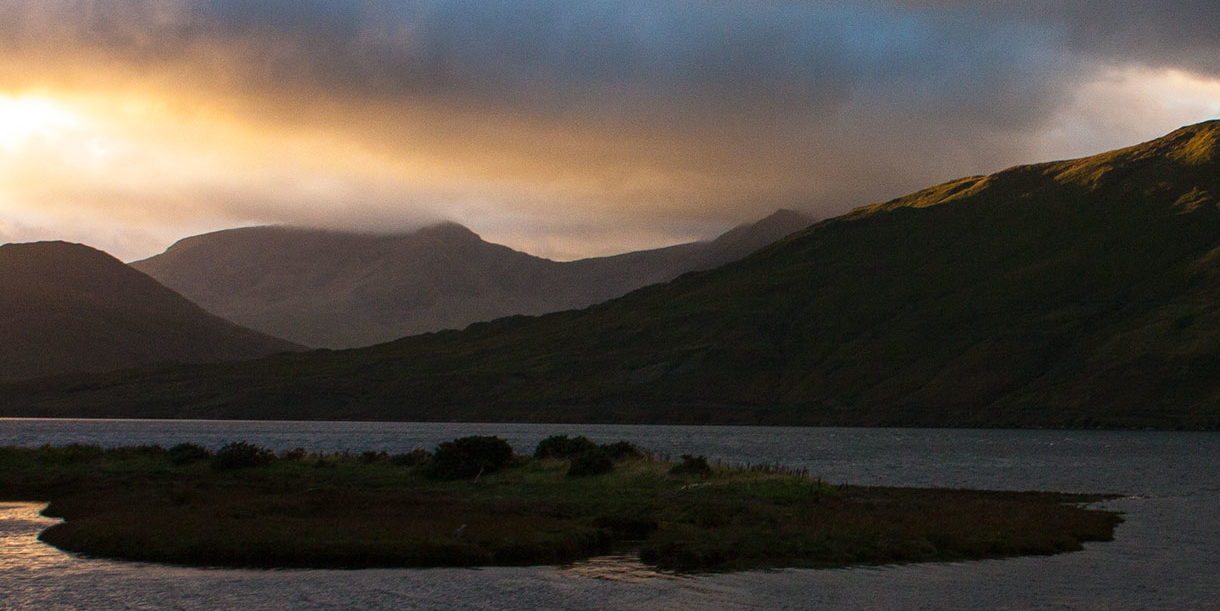
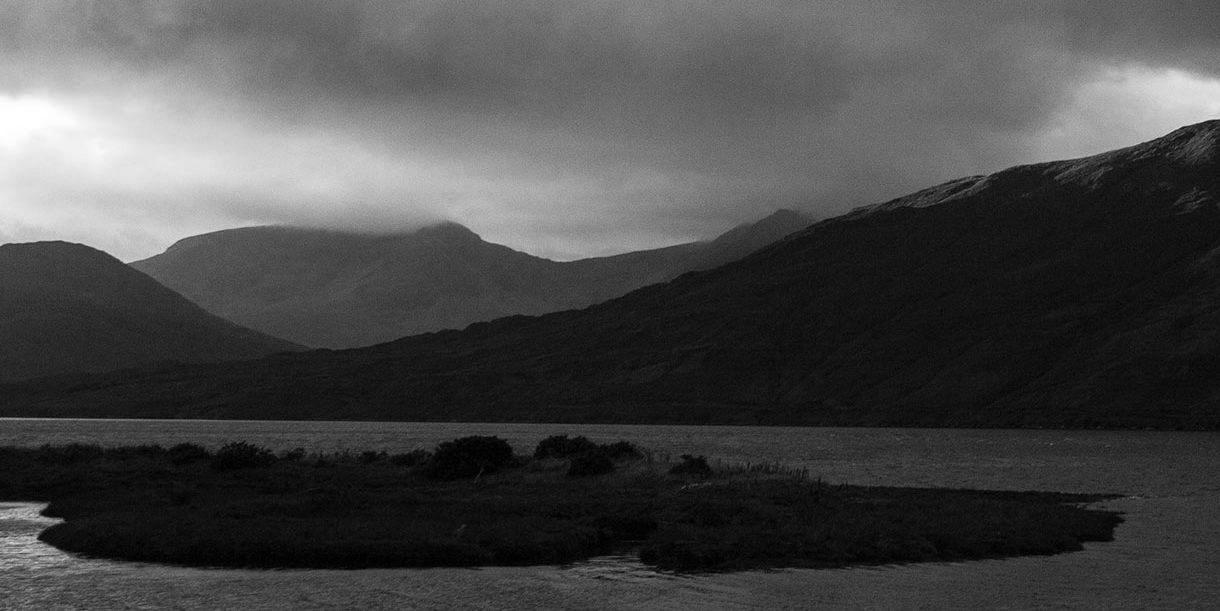
clean up and add new image

diff --git a/css/landing-page.min.css b/css/landing-page.min.css
@@ -39,7 +39,8 @@ p{
   font-family: 'Montserrat', Lato, sans-serif;
   text-transform: uppercase;
   font-weight: 200;
-  letter-spacing: .2rem
+  letter-spacing: .2rem;
+  padding-bottom: 3px;
 }
 
 /* form css */
@@ -92,7 +93,7 @@ p{
 header.masthead {
   position: relative;
   background-color: #101010;
-  background: url(../img/109-crop.jpg) no-repeat center center;
+  background: url(../img/mouintains.jpg) no-repeat center center;
   background-size: cover;
   padding-top: 6rem;
   padding-bottom: 6rem;
